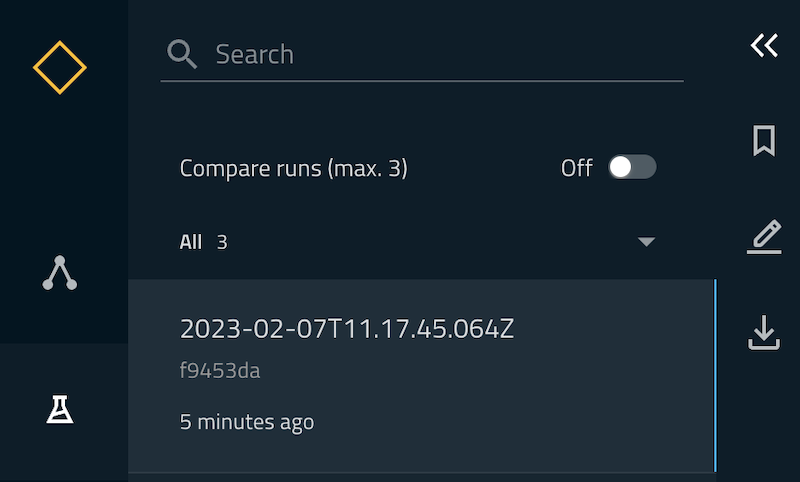
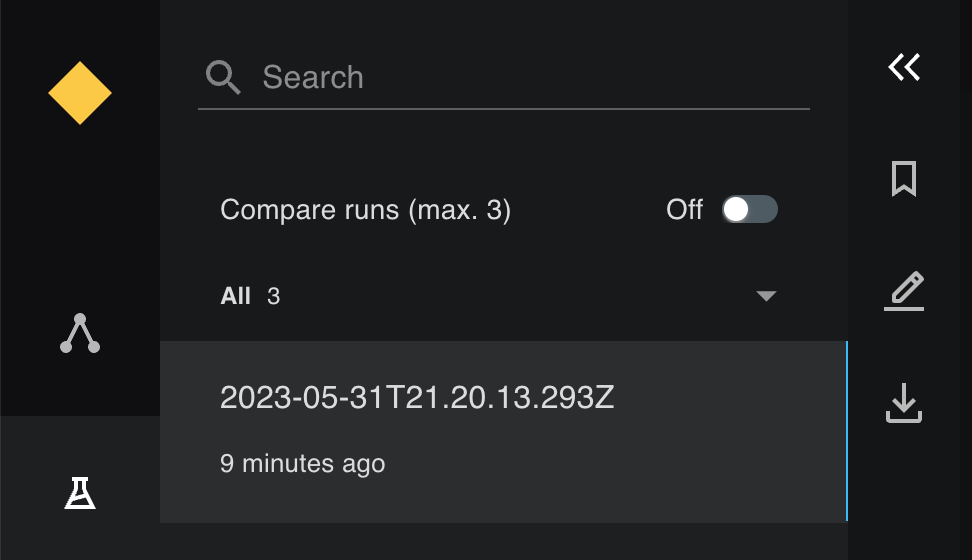
Chore/update assets for docs (#2625)
* Update docs font family to Inter

* Match weights to previous Google font

* Update logo images; revert css formatting for easier PR review

* Update text styles

* Add trailing whitespace (?)

* Update Kedro image path

* Update font size

* update font to font-family: 'Inter', sans-serif;

* testing with important for font-family

* update assets for experiment tracking, docs, pipeline, focus mode, matplotlib and plotly

* update modular pipelines section

* autoreload

* reupload autoreload gif

* revert back to develop branch

* gif for ET comparison

* remove jupyter notebook screenshot since its not used anywhere

* Update databricks viz demo

* pipeline_show_metrics gif

* update different gif format

* point to main instead of develop for kedro-banner

---------

diff --git a/README.md b/README.md
@@ -1,4 +1,4 @@
-![Kedro Logo Banner](https://raw.githubusercontent.com/kedro-org/kedro/develop/static/img/kedro_banner.png)
+![Kedro Logo Banner](https://raw.githubusercontent.com/kedro-org/kedro/main/static/img/kedro_banner.png)
 [![Python version](https://img.shields.io/badge/python-3.7%20%7C%203.8%20%7C%203.9%20%7C%203.10-blue.svg)](https://pypi.org/project/kedro/)
 [![PyPI version](https://badge.fury.io/py/kedro.svg)](https://pypi.org/project/kedro/)
 [![Conda version](https://img.shields.io/conda/vn/conda-forge/kedro.svg)](https://anaconda.org/conda-forge/kedro)

diff --git a/docs/source/index.rst b/docs/source/index.rst
@@ -4,7 +4,7 @@
    contain the root `toctree` directive.
 
 
-.. image:: https://raw.githubusercontent.com/kedro-org/kedro/develop/static/img/kedro_banner.png
+.. image:: https://raw.githubusercontent.com/kedro-org/kedro/main/static/img/kedro_banner.png
     :alt: Kedro logo
     :class: kedro-logo
 
